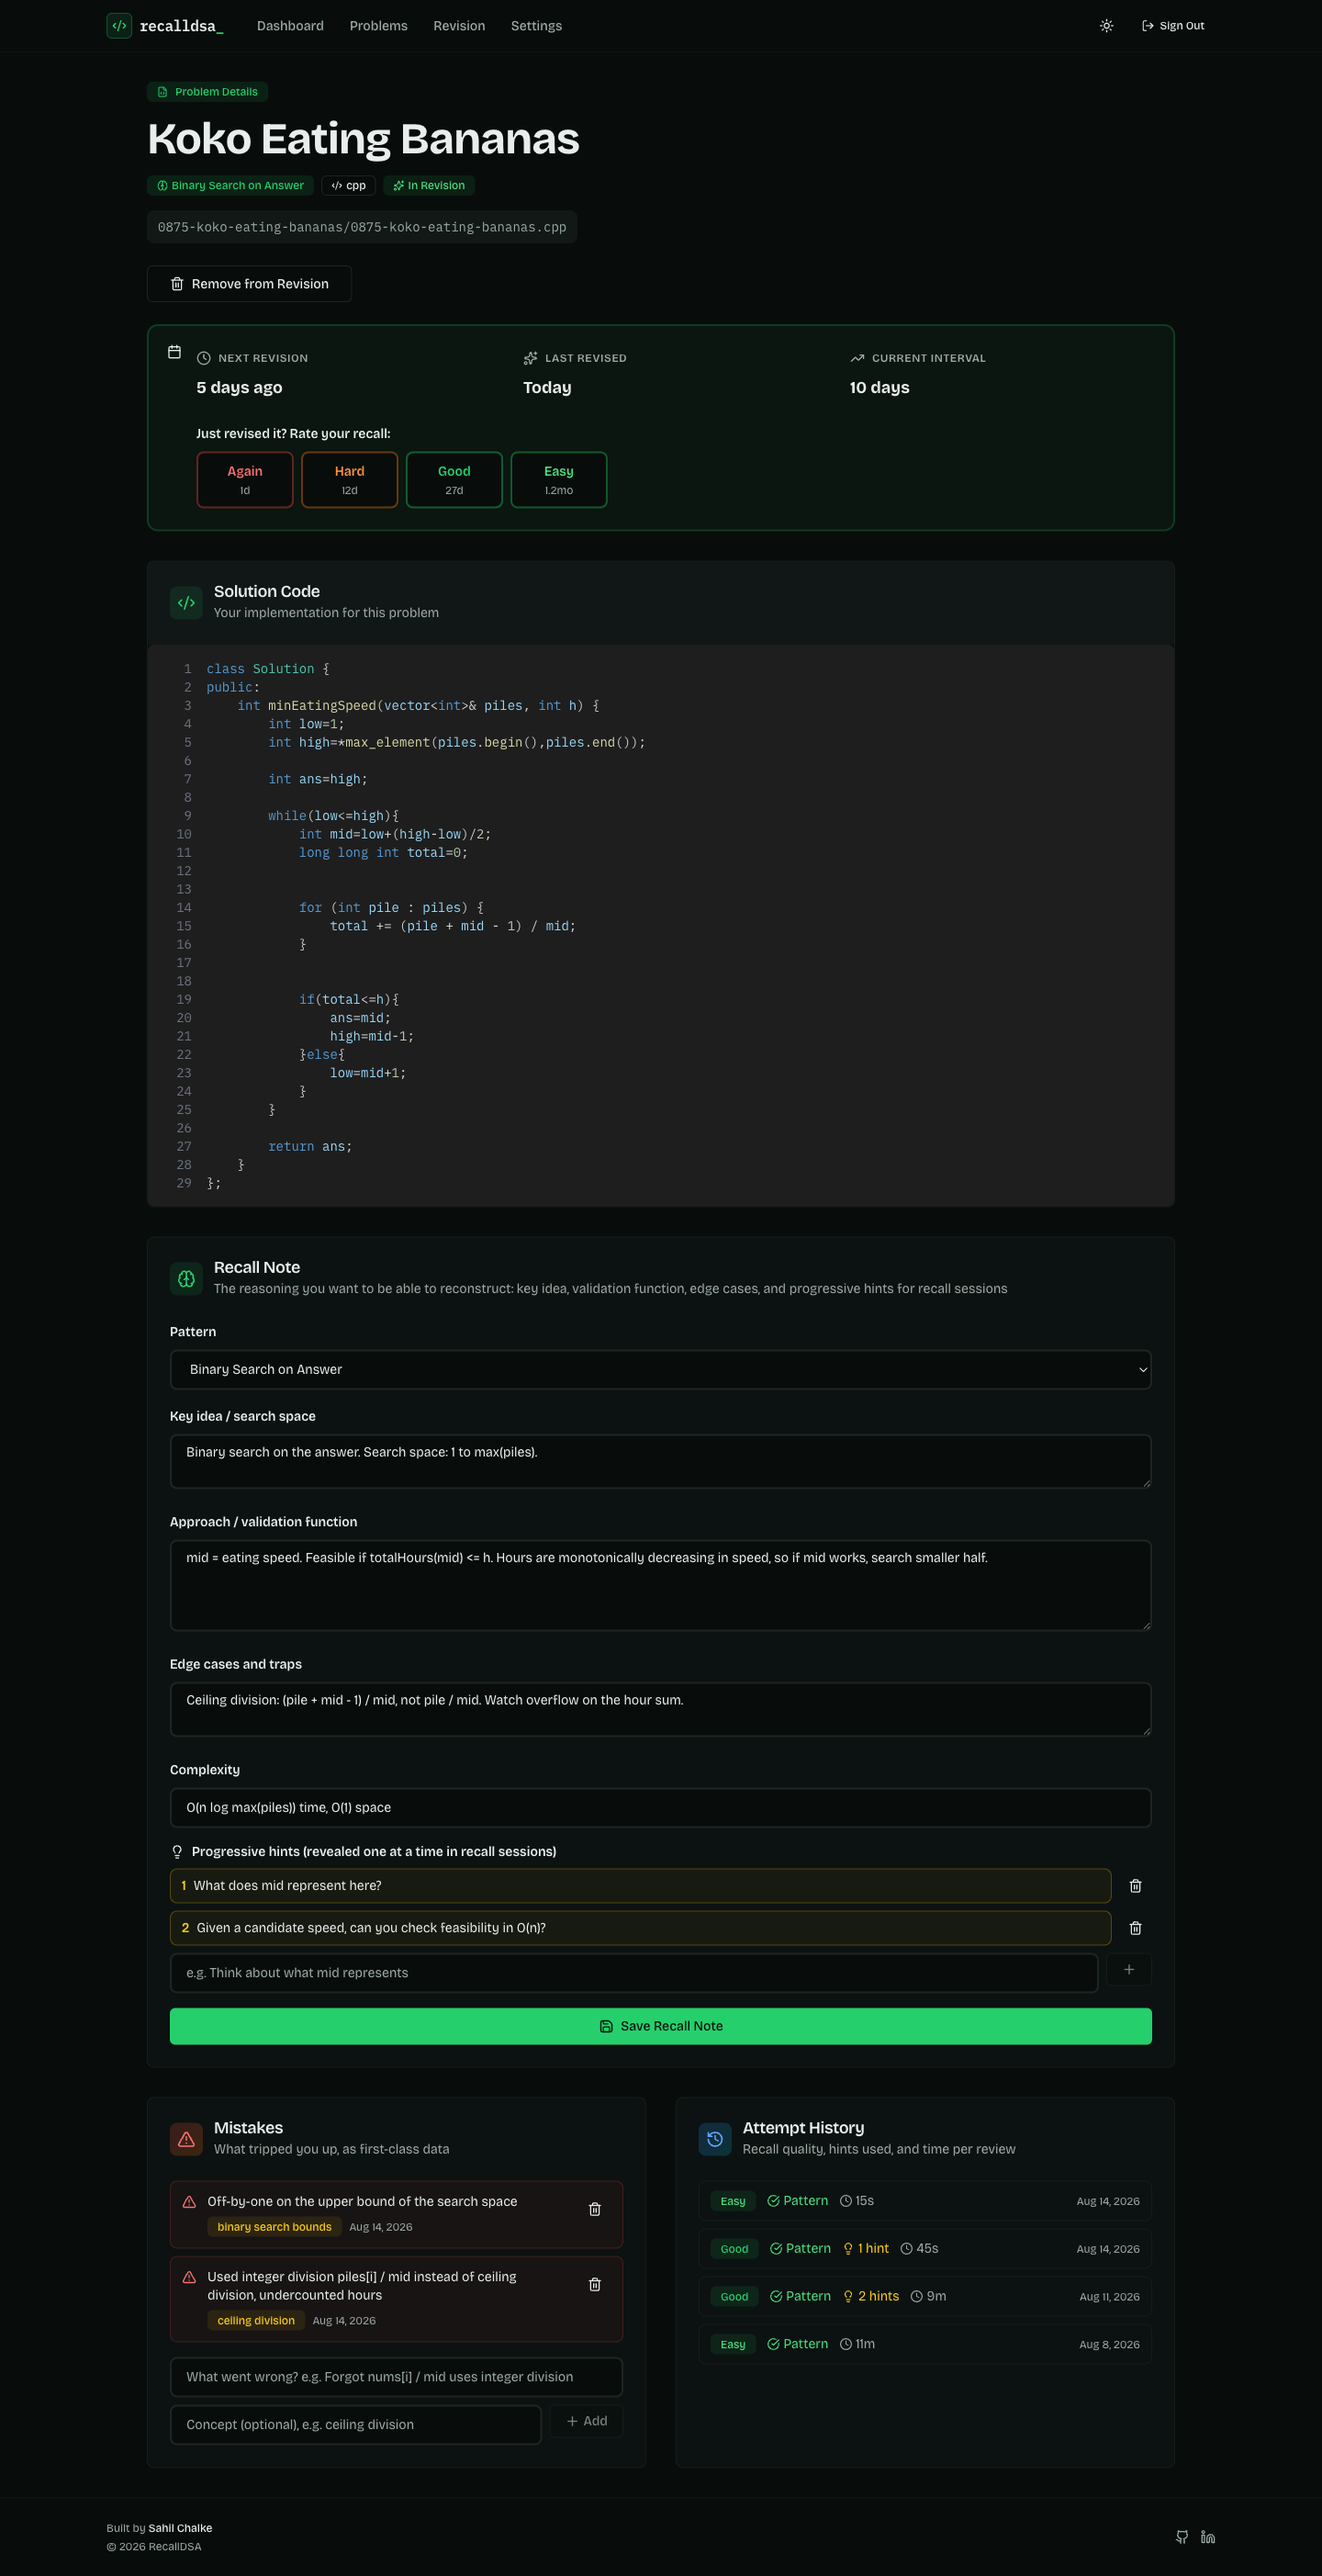
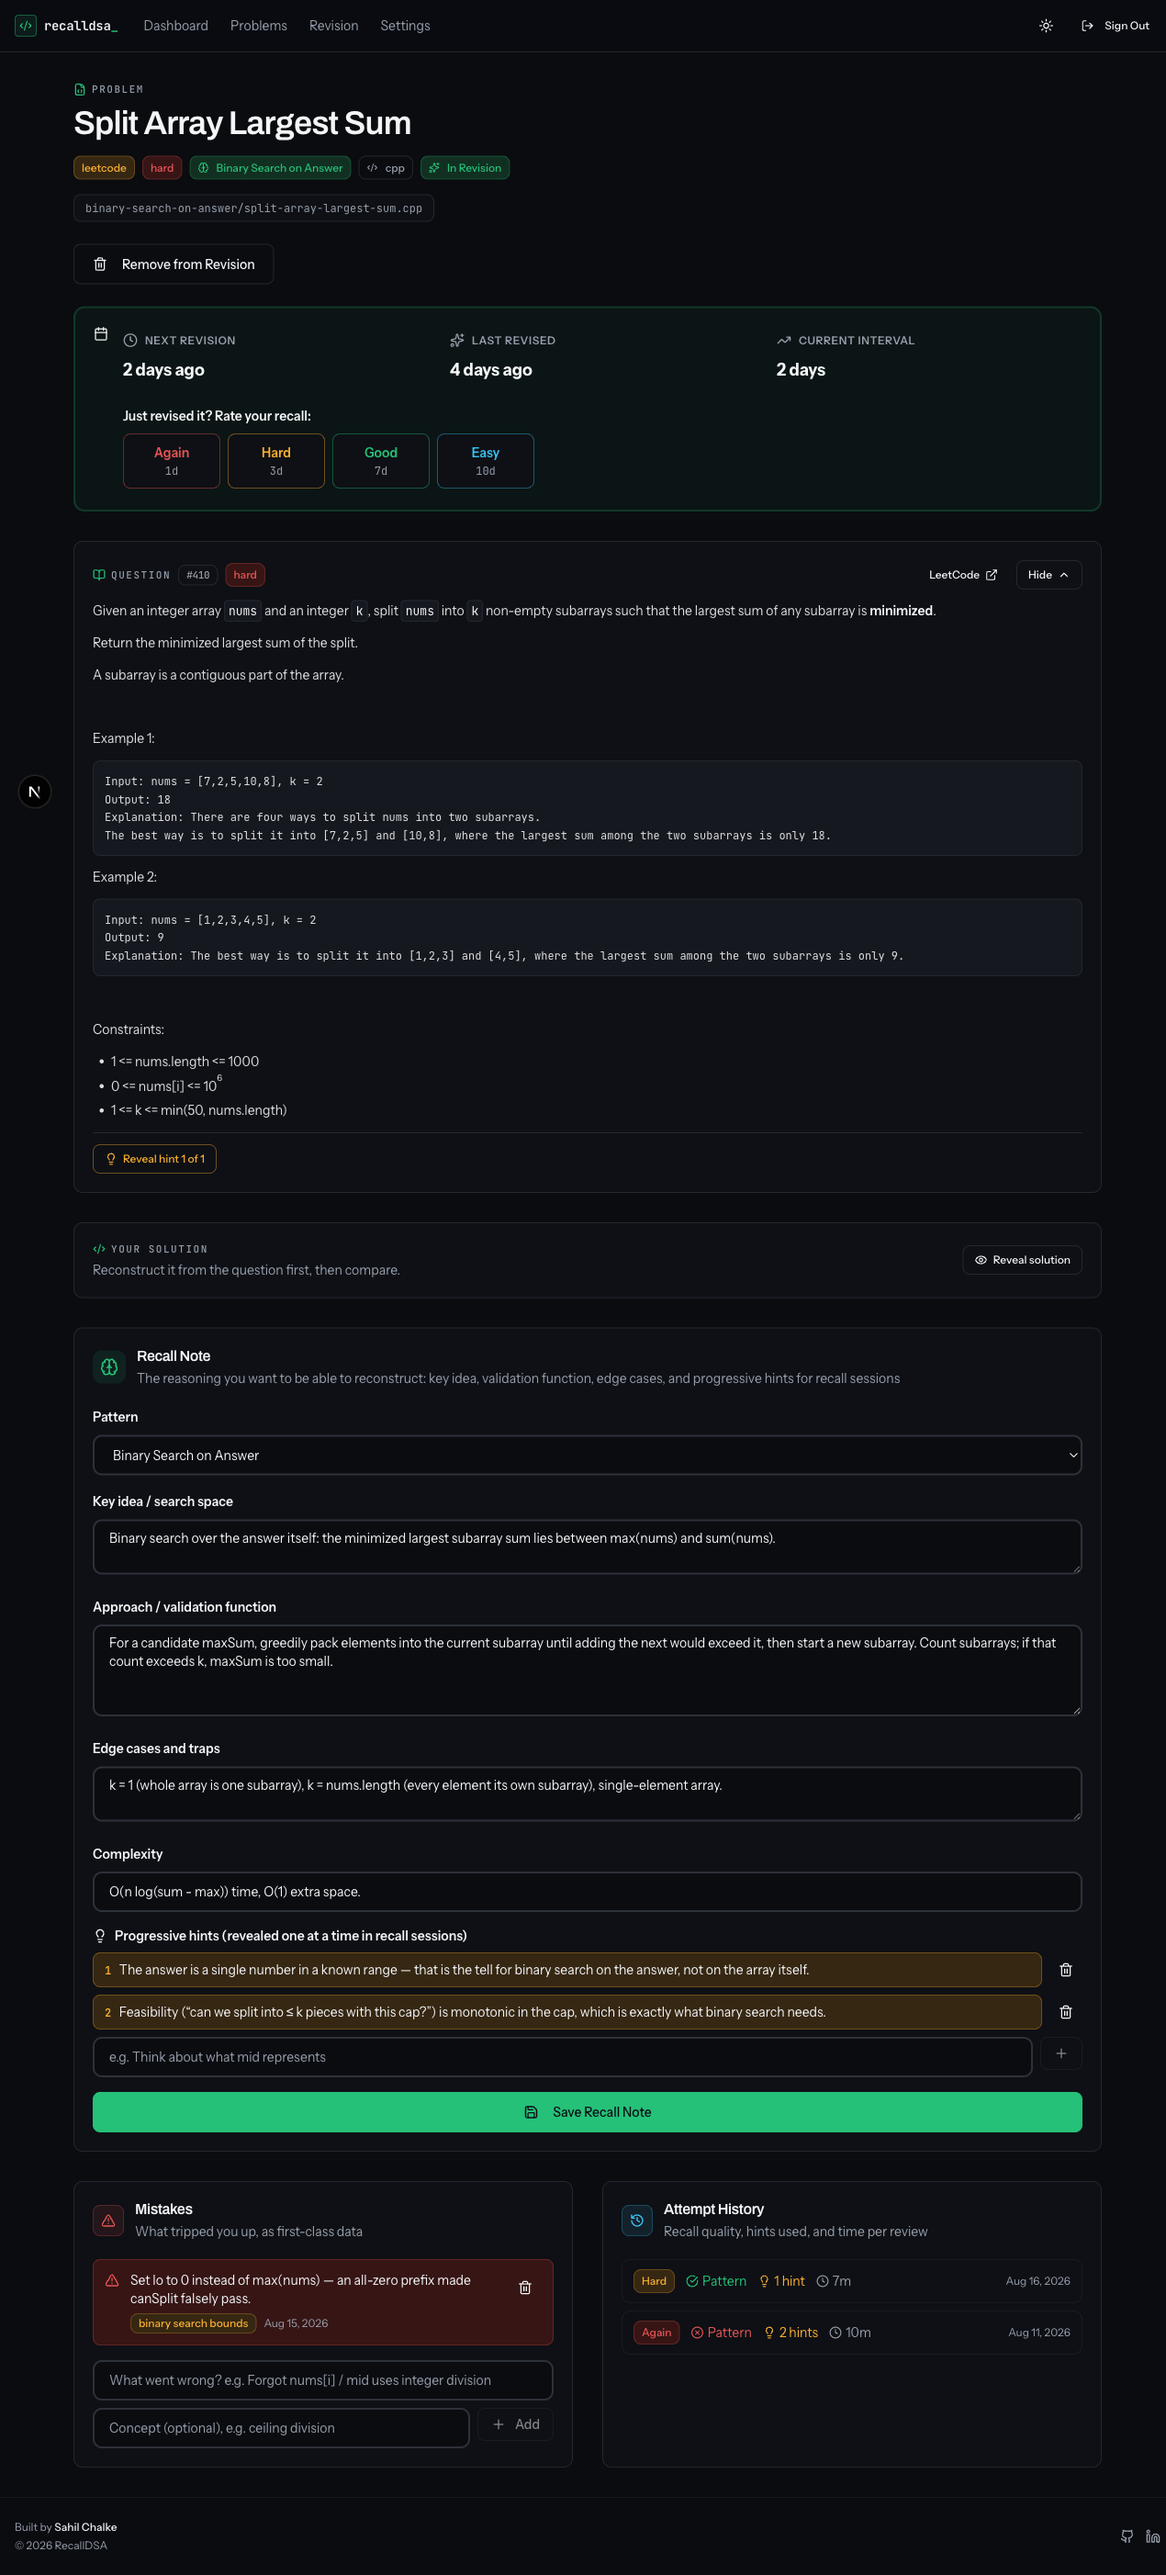
docs: retake every screenshot against the real app, not memory
Every screenshot in the README predated this session's redesign, the
question-statement panel, the recall-consistency calendar, and the trigger
drill — they showed the old purple-tinted UI and a 4-stage recall flow that
no longer matches the code.

Rebuilt each shot by rendering the actual production page components
(DashboardClient, RevisionPage, RecallSessionPage, TriggerDrillPage,
ProblemsPage, ProblemDetailPage) against realistic mock data through a
throwaway route with a stubbed fetch, then captured with Playwright and
deleted the route — no synthetic mockups, no live account needed.

Replaced dashboard.png, dashboard-light.png, revision-queue.png,
problems.png, problem-detail.png, mobile-revision.png. Added
recall-question.png (the new question-statement panel, previously
undocumented) and trigger-drill.png (the new pattern-trigger drill, entirely
new this session). Removed recall-1..4-pattern/approach/solution/rate.png,
superseded by the single question+pattern shot now that the four-screenshot
walkthrough of one flow no longer matches the actual stage sequence.

README prose updated to match: the recall-session section now opens on
reading the question before naming the pattern, documents the keyboard
shortcuts, describes the dedupe banner and per-row retention gauge visible in
the new revision-queue screenshot, adds a Trigger drill section, and
documents the streak-reminder cron (shipped this session, previously
[…]

diff --git a/README.md b/README.md
@@ -35,29 +35,27 @@ You can pass the first and fail the second. The dashboard tells you which one is
 
 The core loop. Four stages per problem, and **nothing is revealed until you've committed to an answer.**
 
+### 0. Read the actual question
+
+Before any of it, the real problem statement — fetched live from the judge, not a title you half-remember. You can't reconstruct a problem you don't recognize.
+
+<img src="docs/screenshots/recall-question.png" alt="Recall session showing the live-fetched LeetCode question for Split Array Largest Sum, above the pattern-naming stage" width="100%">
+
 ### 1. Name the pattern first
 
-Before the code, before the notes, before anything: what kind of problem is this? Your guess is recorded and compared to the stored pattern, so recognition gets measured, not assumed.
-
-<img src="docs/screenshots/recall-1-pattern.png" alt="Recall session stage 1: the app shows only the problem title and asks which pattern it is" width="100%">
+What kind of problem is this? Your guess is recorded and compared to the stored pattern, so recognition gets measured, not assumed.
 
 ### 2. Reconstruct the approach
 
 Rebuild the key idea, the search space, and the validation function in your head. Stuck? Reveal **your own hints**, one at a time, and the app counts how many you needed. Then compare against the reasoning you wrote down last time.
 
-<img src="docs/screenshots/recall-2-approach.png" alt="Recall session stage 2 showing a revealed hint plus stored key idea, approach, edge cases and complexity for Koko Eating Bananas" width="100%">
-
 ### 3. Check the solution
 
-Your actual code, pulled live from GitHub. No copy in a database that drifts out of date.
-
-<img src="docs/screenshots/recall-3-solution.png" alt="Recall session stage 3 revealing the user's own C++ solution fetched from GitHub" width="100%">
+Your actual code, pulled live from GitHub, gated behind a **Reveal solution** button so the reconstruction happens before the peek.
 
 ### 4. Rate honestly
 
-Each button shows exactly when the problem comes back. Rate it **Again** and it resets to tomorrow, no matter how many times you've seen it.
-
-<img src="docs/screenshots/recall-4-rate.png" alt="Recall session rating stage with an explain-back box and Again/Hard/Good/Easy buttons showing 1d, 12d, 27d and 1.2mo intervals" width="100%">
+Each button shows exactly when the problem comes back. Rate it **Again** and it resets to tomorrow, no matter how many times you've seen it. `Space`/`Enter` advances each stage and `1`–`4` rate without touching the mouse, since this is a drilling tool.
 
 ---
 
@@ -78,9 +76,11 @@ Ease is clamped to a 1.3 floor so a problem you keep failing can't spiral, and i
 
 ## Your review queue
 
-Due, upcoming, and mastered, split so the counts don't overlap and double-count. Overdue problems are marked, and lapses stay visible so a problem you keep failing can't hide behind a green streak.
+Due, upcoming, and mastered, split so the counts don't overlap and double-count. Overdue problems are marked, lapses stay visible so a problem you keep failing can't hide behind a green streak, and a retention gauge on every row shows how well it's actually holding — not just when it's next due.
 
-<img src="docs/screenshots/revision-queue.png" alt="Revision page showing Due Now, Upcoming, and Mastered counts with a list of overdue problems" width="100%">
+<img src="docs/screenshots/revision-queue.png" alt="Revision page showing Due, Upcoming, and Mastered counts, a duplicate-cards banner, and a list of overdue problems with a retention gauge per row" width="100%">
+
+The queue refreshes itself when you return to the tab, and a commit backfill runs quietly in the background every 30 minutes, so newly solved problems show up without you asking.
 
 ### Catching up on what you already solved
 
@@ -88,15 +88,25 @@ Due, upcoming, and mastered, split so the counts don't overlap and double-count.
 
 That matters because a solve date is not a sync date. A problem you finished five days ago and never revisited is genuinely overdue; one you solved this morning shouldn't be in today's queue at all. The first review lands a day after the solve, so the queue naturally orders itself oldest-first, and today's work waits until tomorrow.
 
-It also collapses duplicates. LeetHub and LeetSync both commit the same solution under different folder namings (`0875-koko-eating-bananas/0875-koko-eating-bananas.cpp` and `875-koko-eating-bananas/koko-eating-bananas.cpp`, sometimes under different problem numbers), which would otherwise queue the same problem two or three times. Re-running is safe: already-tracked problems are skipped.
+It also collapses duplicates, everywhere, not just on import. LeetHub and LeetSync both commit the same solution under different folder namings (`0875-koko-eating-bananas/0875-koko-eating-bananas.cpp` and `875-koko-eating-bananas/koko-eating-bananas.cpp`, sometimes under different problem numbers), which would otherwise queue the same problem two or three times. A directory naming a topic (`backtracking/`) is told apart from one naming a problem (`0046-permutations/`), a pattern comes from the judge's own topic tags rather than guessed from the path, and a banner surfaces any duplicate cards still left over from before this existed, with a one-click cleanup that keeps whichever copy holds the review history.
+
+---
+
+## Trigger drill
+
+Reading your own solution rehearses code nobody will ask you to reproduce. The actual transferable skill is narrower: given the shape of a problem, which technique applies. The trigger drill isolates exactly that, no code, no problem context, just the structural features of a statement and a guess at the pattern they imply.
+
+<img src="docs/screenshots/trigger-drill.png" alt="Trigger drill showing the features of a binary-search-on-answer problem, a correct pattern guess, and the mechanism explanation" width="100%">
+
+The deck orders itself by where you actually struggle, pulled from 90 days of real recall attempts, so the pattern you keep missing comes up first instead of last.
 
 ---
 
 ## Your library
 
-Everything synced from your repo, filterable by pattern, platform, difficulty, and language, with a live review state per problem. Expand any row to preview the code without leaving the page.
+Everything synced from your repo, filterable by pattern, platform, difficulty, and language, with a live review state per problem. A problem committed under two paths — a rewrite in a second language, a folder rename — shows once, with a badge noting how many files back it. Expand any row to preview the code without leaving the page.
 
-<img src="docs/screenshots/problems.png" alt="Problems library filtered to the Binary Search pattern, showing review state per problem" width="100%">
+<img src="docs/screenshots/problems.png" alt="Problems library showing review state per problem, including a duplicate-file badge on one row" width="100%">
 
 ---
 
@@ -109,7 +119,7 @@ This is what makes recall sessions worth anything. For each problem you keep:
 - **Mistakes as first-class data**, tagged with the underlying concept
 - **Attempt history**: rating, whether you recognized the pattern, hints used, time taken
 
-<img src="docs/screenshots/problem-detail.png" alt="Problem detail page for Koko Eating Bananas with solution code, recall note, hint ladder, mistake log and attempt history" width="100%">
+<img src="docs/screenshots/problem-detail.png" alt="Problem detail page for Split Array Largest Sum with the question, a gated solution reveal, recall note, hint ladder, mistake log and attempt history" width="100%">
 
 Log the same concept a few times and it surfaces on the dashboard as a **recurring mistake**. "You keep getting binary-search bounds wrong" is a far more useful signal than a solved count.
 
@@ -118,7 +128,7 @@ Log the same concept a few times and it surfaces on the dashboard as a **recurri
 ## Both themes, and it works on a phone
 
 <div align="center">
-<img src="docs/screenshots/dashboard-light.png" alt="RecallDSA dashboard in light mode" width="65%">
+<img src="docs/screenshots/dashboard-light.png" alt="RecallDSA dashboard in light mode with the recall-consistency calendar" width="65%">
 &nbsp;
 <img src="docs/screenshots/mobile-revision.png" alt="RecallDSA revision queue on a 390px mobile viewport" width="25%">
 </div>
@@ -127,11 +137,15 @@ Log the same concept a few times and it surfaces on the dashboard as a **recurri
 
 ## GitHub sync
 
-Connect a repo once and RecallDSA reads its tree, parsing each solution file for pattern, platform, difficulty, and language from the path (LeetHub-style `0875-koko-eating-bananas/` layouts and folder-per-pattern layouts both work).
+Connect a repo once and RecallDSA reads its tree. Pattern and difficulty come from the judge's own topic tags first (LeetCode's public GraphQL API), falling back to the path only for problems the judge doesn't recognize — a path names the problem, not the technique it uses.
 
-After that a webhook keeps it current: new solutions you push enter the review queue automatically, edits refresh the metadata, and files you delete are removed. There's a manual **Sync from GitHub** button too.
+After that a webhook keeps it current: new solutions you push enter the review queue automatically, edits refresh the metadata, and files you delete are removed — unless that file's problem already carries review history, in which case it's kept, because a rename is a new path, not evidence the problem is gone. There's a manual **Sync from GitHub** button too.
 
 The first import is deliberately *not* auto-scheduled. Importing 675 problems and having 675 reviews land due on day one is how a review queue gets abandoned; you pick what to track.
+
+### Streak reminders
+
+A daily cron checks whether a live streak is about to lapse — streak alive, nothing reviewed today, and something genuinely due, all three, or it stays quiet. The email mirrors the app's own dark theme and links straight to the due problems, both in the app and on the judge.
 
 ---
 
@@ -141,15 +155,25 @@ The first import is deliberately *not* auto-scheduled. Importing 675 problems an
 
 ```
 app/
-  api/            REST routes: problems, revisions, repos, mistakes, cron, webhook
-  revision/recall/ the staged recall session
-  dashboard/      readiness metrics, computed server-side
+  api/                REST routes: problems, revisions, repos, mistakes, cron, webhook
+  revision/recall/    the staged recall session
+  revision/triggers/  the pattern-trigger drill
+  dashboard/          readiness metrics, computed server-side
 lib/
-  spaced-repetition.ts   the SM-2 scheduler (pure, unit tested)
-  solve-history.ts       solve-date scheduling and duplicate collapsing (unit tested)
-  github.ts              tree walking, path parsing, pattern detection, commit dates
-  auth.ts                NextAuth config
-prisma/schema.prisma     User, Repo, Problem, Revision, RecallNote, Attempt, Mistake
+  spaced-repetition.ts    the SM-2-derived scheduler (pure, unit tested)
+  problem-identity.ts     canonical problem identity — the one dedup source of truth
+  revision-queue.ts       collapses duplicate revisions, keeping the one with history
+  pattern-detection.ts    topic-tag classification, path heuristics as fallback
+  pattern-triggers.ts     the 28-card trigger deck and weakness-based drill order
+  leetcode.ts             LeetCode GraphQL client, cached
+  activity.ts             streak and consistency-calendar math
+  streak-reminder.ts      streak-risk assessment and the reminder email template
+  sanitize-html.ts        allowlist sanitizer for judge-supplied statement HTML
+  solve-history.ts        solve-date scheduling and duplicate collapsing (unit tested)
+  github.ts               tree walking, path parsing, commit dates
+  app-url.ts              resolves the app's real origin for outbound email links
+  auth.ts                 NextAuth config
+prisma/schema.prisma      User, Repo, Problem, Revision, RecallNote, Attempt, Mistake
 ```
 
 ---
